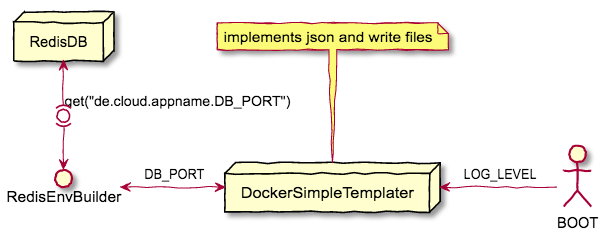
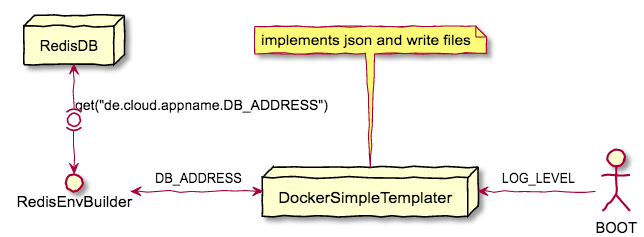
RedisDB-Client

Changed region(s): [[0.0, 0.0299, 0.9851, 0.9573], [0.9254, 0.5983, 0.9851, 0.7778], [0.9254, 0.9274, 1.0, 0.9872]]

diff --git a/README.md b/README.md
@@ -37,7 +37,7 @@ JSON
  {
    'template':'/src/index.tpl.html',
    'target':'/usr/share/nginx/html/index.html',
-   'set':[ "ENV_FIRSTNAME", "ENV_LASTNAME", "ENV_STREET", "DB_PORT" ],
+   'set':[ "ENV_FIRSTNAME", "ENV_LASTNAME", "ENV_STREET", "DB_ADDRESS" ],
    'keyqualifier': 'de.cloud.key_value_group_id'
   },
   {....}
